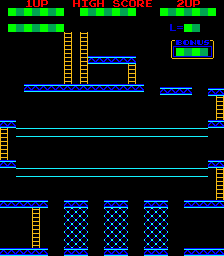
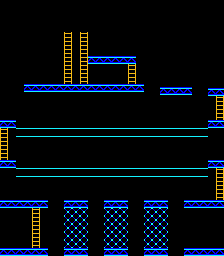
Agrego a Donkey Kong

diff --git a/src/main.cpp b/src/main.cpp
@@ -9,6 +9,7 @@
 #include "PlataformaMovil.h"
 #include "EnemigoFuego.h"
 #include "Peach.h"
+#include "DonkeyKong.h"
 
 const int ANCHO_PANTALLA = 800;
 const int ALTO_PANTALLA = 600;
@@ -44,6 +45,7 @@ int main(void)
     //Barril b2(200, 0, 0, 7);
 
     Peach p1(314, 76, 40, 55);
+    DonkeyKong d1(129, 115, 100, 82);
 
     n1.agregarObjeto(&m1);
     n1.agregarObjeto(&m2);
@@ -59,6 +61,7 @@ int main(void)
     n1.agregarObjeto(&e2);
 
     n1.agregarObjeto(&p1);
+    n1.agregarObjeto(&d1);
     
     while(!terminarPrograma) {
         while( SDL_PollEvent(&event) != 0 ) {

diff --git a/src/DonkeyKong.h b/src/DonkeyKong.h
@@ -1,0 +1,18 @@
+#pragma once
+
+#include <string>
+#include "Entidad.h"
+#include "ComponenteVistaEntidadEstatica.h"
+
+class DonkeyKong : public Entidad {
+    public:
+
+    DonkeyKong(int posX, int posY, int ancho, int alto);
+    void mostrar(SDL_Renderer* renderer);
+    void mover();
+    std::string getRutaImagen();
+
+    private:
+    ComponenteVistaEntidadEstatica* compVista = new ComponenteVistaEntidadEstatica();
+    std::string rutaImagen = "res/DonkeyKong.png";
+};

diff --git a/src/DonkeyKong.cpp b/src/DonkeyKong.cpp
@@ -1,0 +1,17 @@
+#include <SDL2/SDL.h>
+#include <SDL2/SDL_image.h>
+#include "Entidad.h"
+#include "DonkeyKong.h"
+#include "ComponenteVistaEntidadEstatica.h"
+
+DonkeyKong::DonkeyKong(int posX, int posY, int ancho, int alto) 
+: Entidad(posX, posY, ancho, alto){
+    compVista = new ComponenteVistaEntidadEstatica();
+}
+
+void DonkeyKong::mostrar(SDL_Renderer* renderer) {
+    compVista->mostrar(this, rutaImagen, renderer);
+}
+void DonkeyKong::mover() {
+
+}
